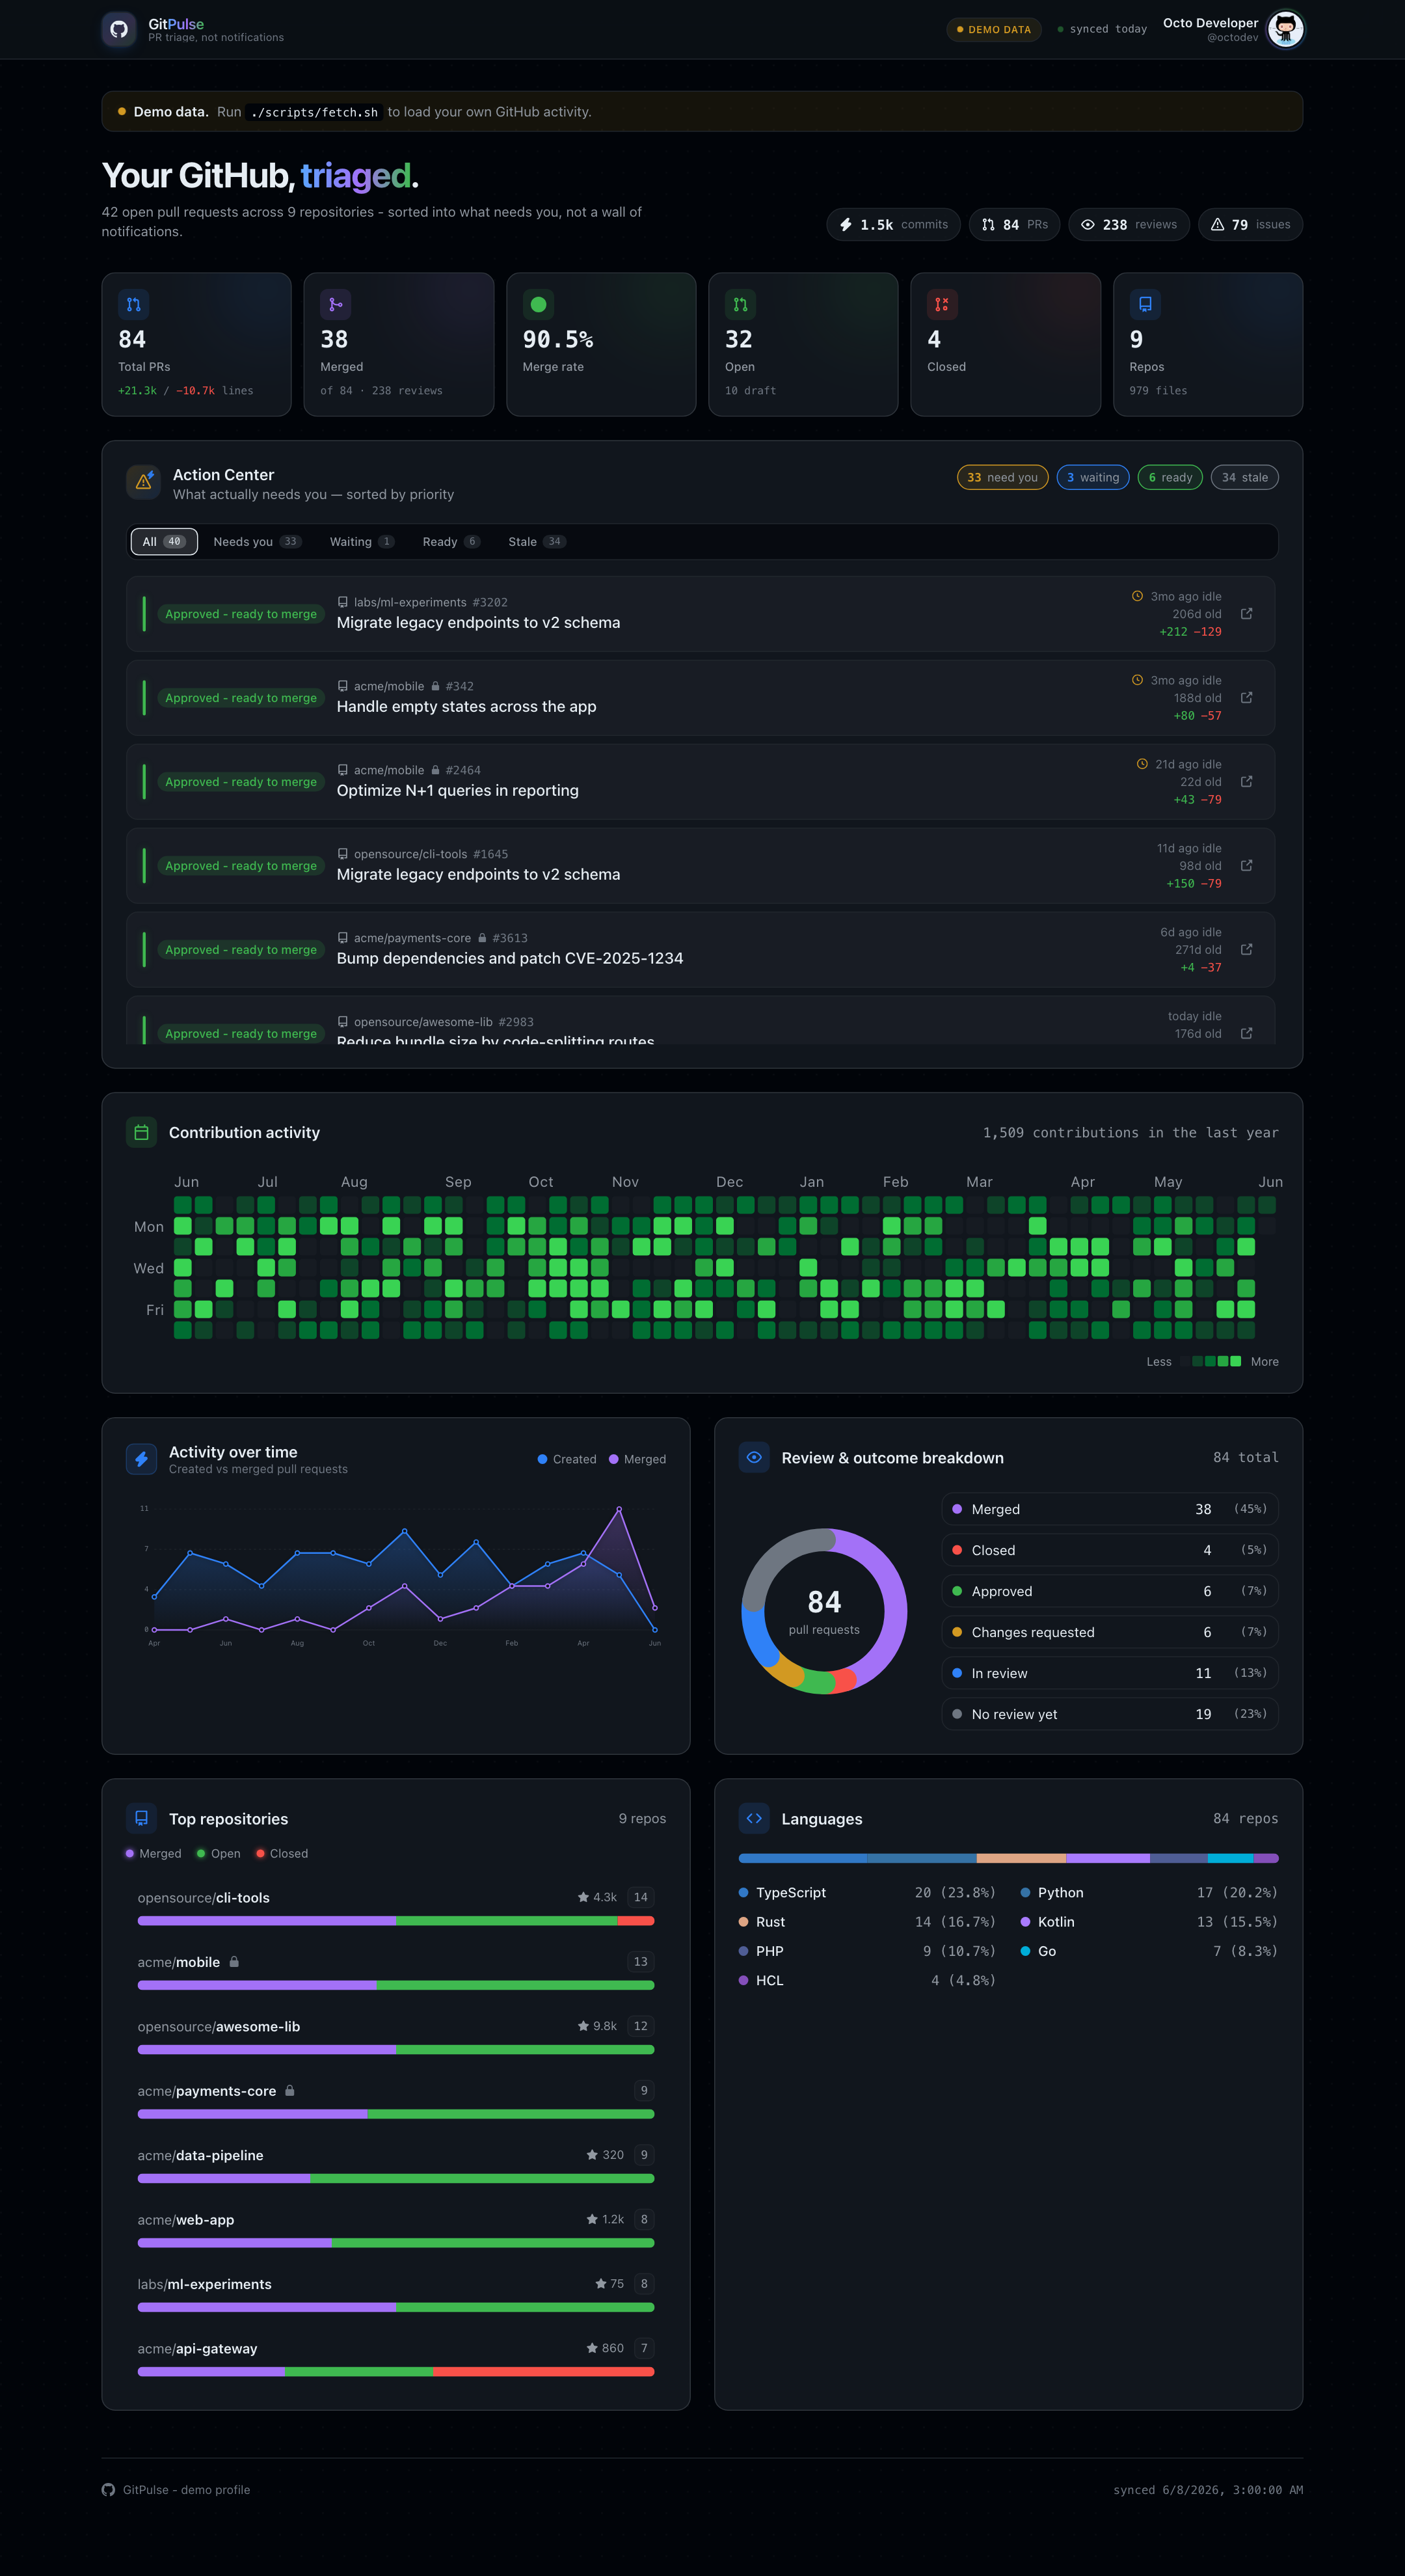
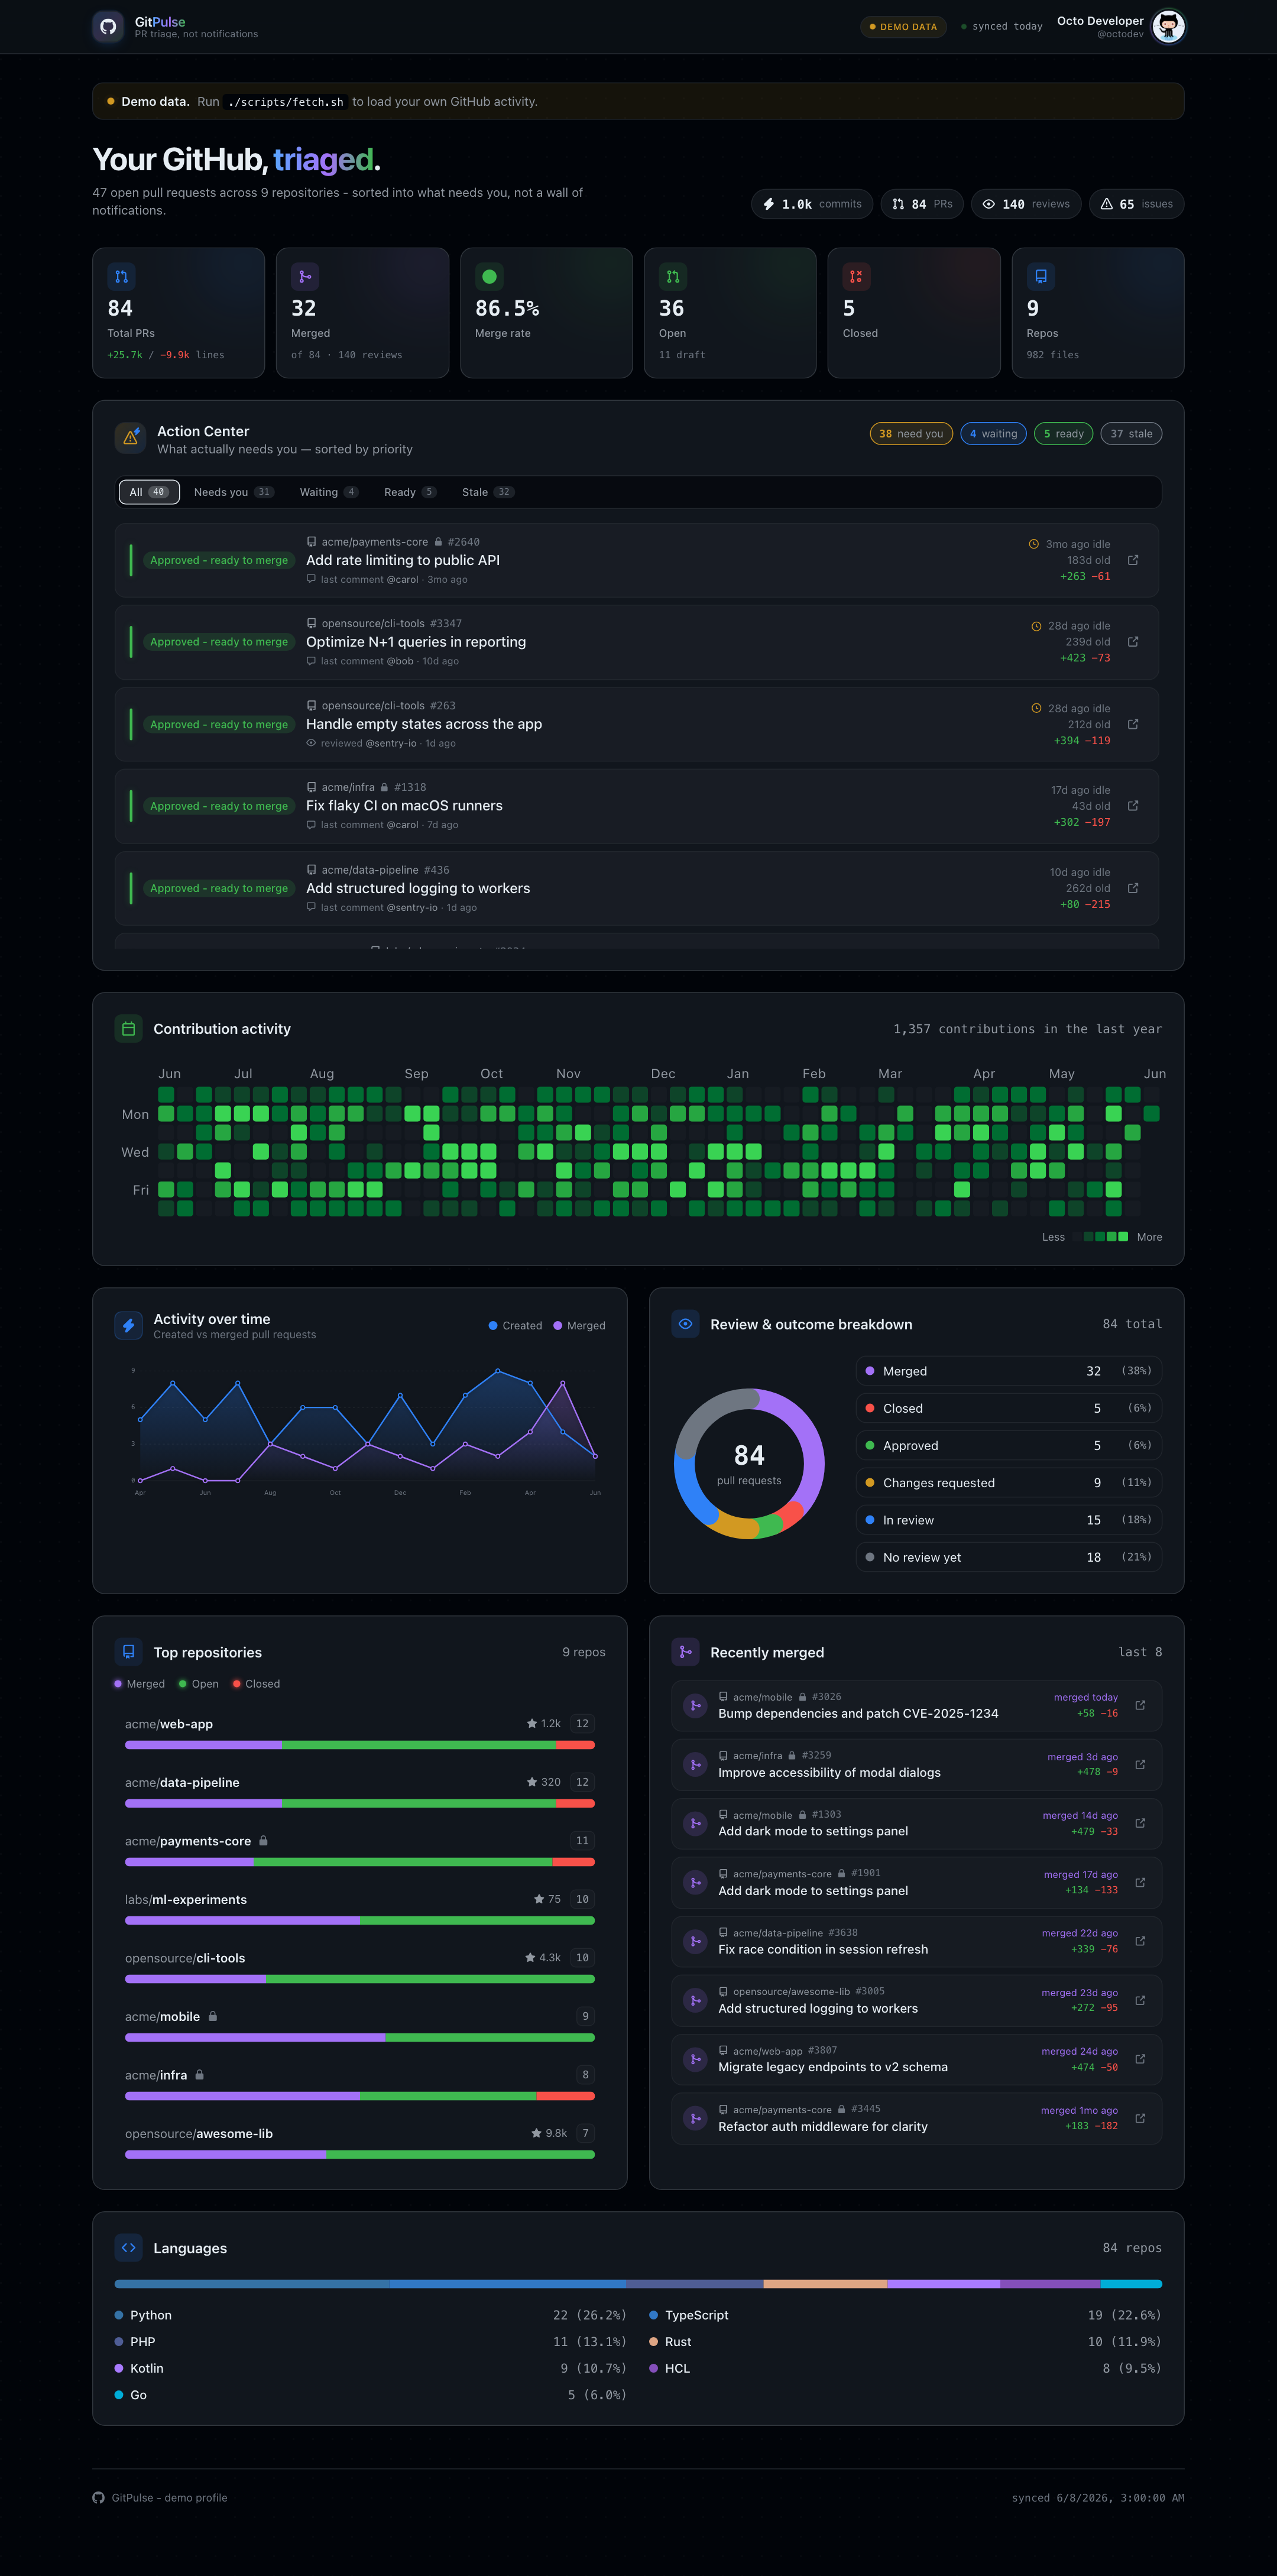
Add last-comment / last-review activity per PR + Recently merged feed
- GraphQL now pulls comments(last:1) + reviews(last:1) per PR
- Each Action Center row shows last activity (who reviewed/commented, when)
- New 'Recently merged' card lists the last 8 merges with timestamps
- Demo generator + types updated to match

diff --git a/components/RecentMerges.tsx b/components/RecentMerges.tsx
@@ -1,0 +1,89 @@
+"use client";
+
+import { motion } from "motion/react";
+import type { RecentMerge } from "@/lib/types";
+import { MergeIcon, ExternalIcon, RepoIcon } from "@/lib/octicons";
+import { compact, ago } from "@/lib/format";
+
+function Lock({ size = 10 }: { size?: number }) {
+  return (
+    <svg viewBox="0 0 16 16" width={size} height={size} fill="currentColor" aria-hidden className="shrink-0 text-fg-subtle">
+      <path d="M4 4a4 4 0 0 1 8 0v2h.25c.966 0 1.75.784 1.75 1.75v5.5A1.75 1.75 0 0 1 12.25 15h-8.5A1.75 1.75 0 0 1 2 13.25v-5.5C2 6.784 2.784 6 3.75 6H4Zm6.5 2V4a2.5 2.5 0 1 0-5 0v2Z" />
+    </svg>
+  );
+}
+
+export default function RecentMerges({ merges }: { merges: RecentMerge[] }) {
+  return (
+    <motion.section
+      initial={{ opacity: 0, y: 12 }}
+      whileInView={{ opacity: 1, y: 0 }}
+      viewport={{ once: true, margin: "-60px" }}
+      transition={{ duration: 0.5, ease: "easeOut" }}
+      className="card p-5 sm:p-6"
+    >
+      <header className="mb-4 flex items-center gap-3">
+        <span
+          className="flex h-8 w-8 items-center justify-center rounded-lg"
+          style={{ background: "color-mix(in srgb, var(--color-merged) 15%, transparent)", color: "var(--color-merged)" }}
+        >
+          <MergeIcon size={16} />
+        </span>
+        <h2 className="font-semibold text-fg">Recently merged</h2>
+        <span className="mono ml-auto text-sm text-fg-muted">last {merges.length}</span>
+      </header>
+
+      {merges.length === 0 ? (
+        <p className="py-8 text-center text-sm text-fg-muted">No merges yet.</p>
+      ) : (
+        <ol className="space-y-2">
+          {merges.map((m, i) => (
+            <motion.li
+              key={m.number + m.repo}
+              initial={{ opacity: 0, x: -10 }}
+              whileInView={{ opacity: 1, x: 0 }}
+              viewport={{ once: true }}
+              transition={{ duration: 0.4, delay: Math.min(i * 0.05, 0.4), ease: "easeOut" }}
+              className="group flex items-center gap-3 rounded-xl border border-border-muted bg-surface-2/50 px-3 py-2.5 transition-colors hover:border-[color:var(--color-merged)]/50"
+            >
+              <span
+                className="grid h-7 w-7 shrink-0 place-items-center rounded-full"
+                style={{ background: "color-mix(in srgb, var(--color-merged) 16%, transparent)", color: "var(--color-merged)" }}
+              >
+                <MergeIcon size={13} />
+              </span>
+
+              <div className="min-w-0 flex-1">
+                <div className="flex items-center gap-1.5 text-[11px] text-fg-muted">
+                  <RepoIcon size={11} className="shrink-0" />
+                  <span className="truncate">{m.repo}</span>
+                  {m.private && <Lock />}
+                  <span className="mono shrink-0 text-fg-subtle">#{m.number}</span>
+                </div>
+                <p className="truncate text-sm font-medium text-fg">{m.title}</p>
+              </div>
+
+              <div className="flex shrink-0 flex-col items-end gap-0.5 text-[11px] text-fg-subtle">
+                <span style={{ color: "var(--color-merged)" }}>merged {ago(m.mergedDays)}</span>
+                <span className="mono">
+                  <span style={{ color: "var(--color-open)" }}>+{compact(m.additions)}</span>{" "}
+                  <span style={{ color: "var(--color-closed)" }}>-{compact(m.deletions)}</span>
+                </span>
+              </div>
+
+              <a
+                href={m.url}
+                target="_blank"
+                rel="noreferrer"
+                className="shrink-0 rounded-md p-1.5 text-fg-subtle transition-colors hover:bg-surface hover:text-fg"
+                aria-label={`Open PR #${m.number}`}
+              >
+                <ExternalIcon size={13} />
+              </a>
+            </motion.li>
+          ))}
+        </ol>
+      )}
+    </motion.section>
+  );
+}

diff --git a/components/ActionCenter.tsx b/components/ActionCenter.tsx
@@ -10,11 +10,25 @@ import {
   ExternalIcon,
   ClockIcon,
   CheckIcon,
+  CommentIcon,
+  EyeIcon,
 } from "@/lib/octicons";
 import { compact, ago, bucketMeta, bucketColor } from "@/lib/format";
 import CountUp from "@/components/CountUp";
 
 type TabKey = "all" | "mine" | "waiting" | "ready" | "stale";
+
+const reviewVerb = (state: string | null): string => {
+  if (state === "APPROVED") return "approved";
+  if (state === "CHANGES_REQUESTED") return "requested changes";
+  if (state === "DISMISSED") return "dismissed review";
+  return "reviewed";
+};
+const reviewColor = (state: string | null): string => {
+  if (state === "APPROVED") return "var(--color-open)";
+  if (state === "CHANGES_REQUESTED") return "var(--color-attention)";
+  return "var(--color-fg-subtle)";
+};
 
 interface TabDef {
   key: TabKey;
@@ -274,6 +288,35 @@ export default function ActionCenter({
                       </span>
                     </div>
                     <p className="truncate text-fg font-medium">{item.title}</p>
+                    {item.lastActivityAt ? (
+                      <div className="mt-0.5 flex items-center gap-1.5 text-[11px] text-fg-subtle">
+                        {item.lastActivityKind === "review" ? (
+                          <span style={{ color: reviewColor(item.lastActivityState) }}>
+                            <EyeIcon size={11} />
+                          </span>
+                        ) : (
+                          <CommentIcon size={11} className="shrink-0" />
+                        )}
+                        <span className="truncate">
+                          {item.lastActivityKind === "review" ? (
+                            <span style={{ color: reviewColor(item.lastActivityState) }}>
+                              {reviewVerb(item.lastActivityState)}
+                            </span>
+                          ) : (
+                            "last comment"
+                          )}{" "}
+                          {item.lastActivityBy && (
+                            <span className="text-fg-muted">@{item.lastActivityBy}</span>
+                          )}{" "}
+                          · {ago(item.lastActivityDays)}
+                        </span>
+                      </div>
+                    ) : (
+                      <div className="mt-0.5 flex items-center gap-1.5 text-[11px] text-fg-subtle/70">
+                        <CommentIcon size={11} className="shrink-0" />
+                        <span>no replies yet</span>
+                      </div>
+                    )}
                   </div>
 
                   {/* Meta */}

diff --git a/lib/types.ts b/lib/types.ts
@@ -101,6 +101,11 @@ export interface PR {
   changedFiles: number;
   comments: number;
   reviews: number;
+  lastCommentAt: string | null;
+  lastCommentBy: string | null;
+  lastReviewAt: string | null;
+  lastReviewState: string | null;
+  lastReviewBy: string | null;
   createdAt: string;
   mergedAt: string | null;
   closedAt: string | null;
@@ -112,6 +117,11 @@ export interface PR {
   bucket: Bucket;
   priority: number;
   reason: string;
+  lastActivityAt: string | null;
+  lastActivityBy: string | null;
+  lastActivityKind: "comment" | "review" | null;
+  lastActivityState: string | null;
+  lastActivityDays: number | null;
 }
 
 export interface FeedItem {
@@ -126,6 +136,24 @@ export interface FeedItem {
   idleDays: number;
   stale: boolean;
   draft: boolean;
+  additions: number;
+  deletions: number;
+  private: boolean;
+  comments: number;
+  lastActivityAt: string | null;
+  lastActivityBy: string | null;
+  lastActivityKind: "comment" | "review" | null;
+  lastActivityState: string | null;
+  lastActivityDays: number | null;
+}
+
+export interface RecentMerge {
+  number: number;
+  title: string;
+  repo: string;
+  url: string;
+  mergedAt: string;
+  mergedDays: number;
   additions: number;
   deletions: number;
   private: boolean;
@@ -154,4 +182,5 @@ export interface Dashboard {
   languages: Language[];
   prs: PR[];
   triage: Triage;
+  recentMerges: RecentMerge[];
 }

diff --git a/app/page.tsx b/app/page.tsx
@@ -12,6 +12,7 @@ import ReviewDonut from "@/components/ReviewDonut";
 import RepoBars from "@/components/RepoBars";
 import ActivityTimeline from "@/components/ActivityTimeline";
 import Languages from "@/components/Languages";
+import RecentMerges from "@/components/RecentMerges";
 import {
   ZapIcon,
   PullRequestIcon,
@@ -94,8 +95,10 @@ export default function Page() {
 
           <div className="grid gap-6 lg:grid-cols-2">
             <RepoBars topRepos={data.topRepos} />
-            <Languages languages={data.languages} />
+            <RecentMerges merges={data.recentMerges} />
           </div>
+
+          <Languages languages={data.languages} />
         </div>
 
         <Footer login={profile.login} generatedAt={data.generatedAt} isDemo={isDemo} />

diff --git a/lib/octicons.tsx b/lib/octicons.tsx
@@ -65,6 +65,9 @@ export const CalendarIcon = svg(
 export const GithubIcon = svg(
   <path d="M8 0c4.42 0 8 3.58 8 8a8.013 8.013 0 0 1-5.45 7.59c-.4.08-.55-.17-.55-.38 0-.27.01-1.13.01-2.2 0-.75-.25-1.23-.54-1.48 1.78-.2 3.65-.88 3.65-3.95 0-.88-.31-1.59-.82-2.15.08-.2.36-1.02-.08-2.12 0 0-.67-.22-2.2.82-.64-.18-1.32-.27-2-.27-.68 0-1.36.09-2 .27-1.53-1.03-2.2-.82-2.2-.82-.44 1.1-.16 1.92-.08 2.12-.51.56-.82 1.28-.82 2.15 0 3.06 1.86 3.75 3.64 3.95-.23.2-.44.55-.51 1.07-.46.21-1.61.55-2.33-.66-.15-.24-.6-.83-1.23-.82-.67.01-.27.38.01.53.34.19.73.9.82 1.13.16.45.68 1.31 2.69.94 0 .67.01 1.3.01 1.49 0 .21-.15.45-.55.38A7.995 7.995 0 0 1 0 8c0-4.42 3.58-8 8-8Z" />
 );
+export const CommentIcon = svg(
+  <path d="M1 2.75C1 1.784 1.784 1 2.75 1h10.5c.966 0 1.75.784 1.75 1.75v7.5A1.75 1.75 0 0 1 13.25 12H9.06l-2.573 2.573A1.458 1.458 0 0 1 4 13.543V12H2.75A1.75 1.75 0 0 1 1 10.25Zm1.75-.25a.25.25 0 0 0-.25.25v7.5c0 .138.112.25.25.25h2a.75.75 0 0 1 .75.75v2.19l2.72-2.72a.749.749 0 0 1 .53-.22h4.5a.25.25 0 0 0 .25-.25v-7.5a.25.25 0 0 0-.25-.25Z" />
+);
 export const FlameIcon = svg(
   <path d="M9.533.753c.166 1.886.535 3.214 1.083 4.085.535.844 1.282 1.485 2.058 2.078.473.357.916.708 1.317 1.103C15.343 9.281 16 11.077 16 13c0 1.66-1.34 3-3 3a3 3 0 0 1-3-3c0-.806.224-1.397.5-1.928a4.34 4.34 0 0 0 .246-.524C8.667 11.5 7 13.5 7 15.5c0 .172.013.34.038.5A6 6 0 0 1 2 10c0-2.21 1.5-4 3-5.5.5-.5 1-1 1.347-1.62C7 1.8 7 .773 7 .753a.75.75 0 0 1 1.222-.58c.39.314.72.69.98 1.103.13-.18.227-.36.331-.523Z" />
 );